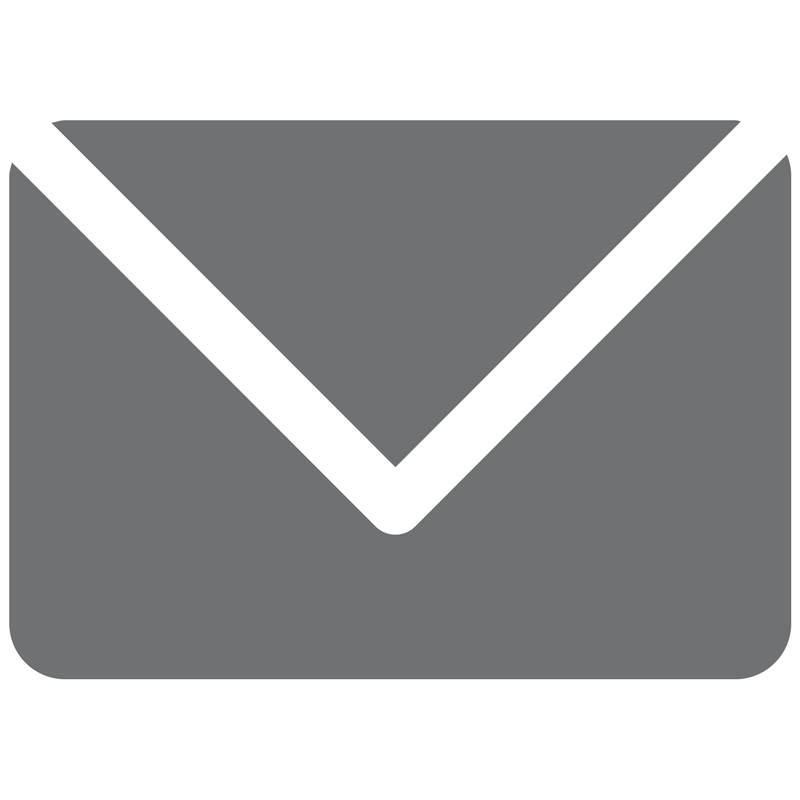
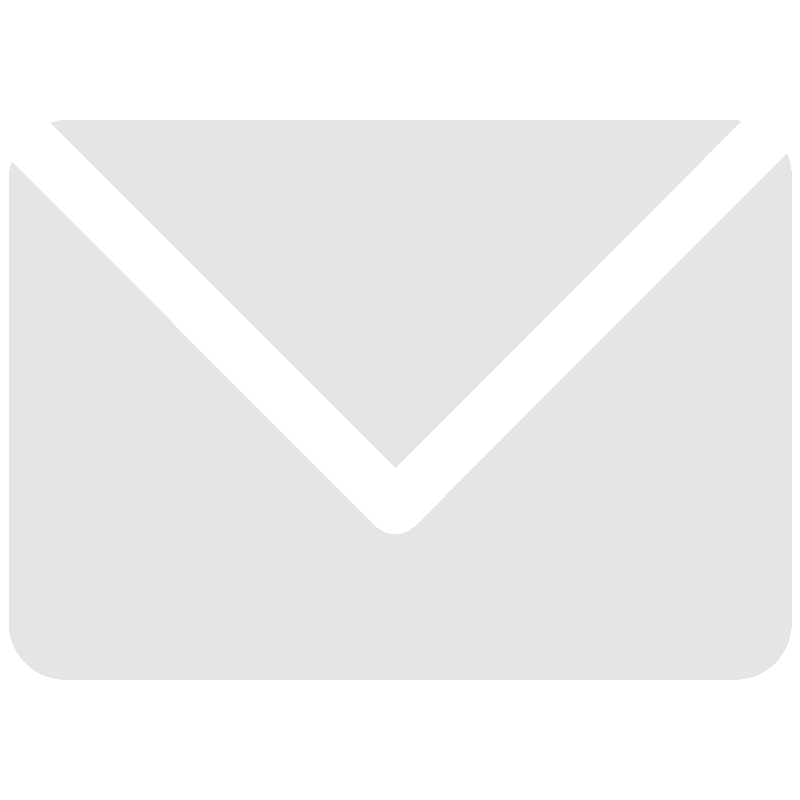
Added contents to Contacts Page

diff --git a/contact/contact.css b/contact/contact.css
@@ -110,12 +110,118 @@
     animation-delay: 1.9s;
 }
 
-.content {
-    padding-bottom: 20rem;
+@keyframes floatUp {
+    from {margin-top: 2rem;opacity: 0}
+    to {margin-top: 0rem;opacity: 1}
 }
 
-@media screen and (max-width: 480px) {}
+@keyframes fadeIn {
+    from {opacity: 0}
+    to {opacity: 1}
+}
 
-@media screen and (min-width: 480px) and (max-width: 1024px) {}
+.content {
+    padding: 5rem;
+}
+
+.title {
+    font-size: 3rem;
+    display: block;
+    color: white;
+    font-family: 'Quicksand', sans-serif;
+    text-align: center;
+    opacity: 0;
+}
+
+.title.show {
+    animation-name: floatUp;
+    animation-duration: 0.8s;
+    animation-fill-mode: both;
+    animation-delay: 1.5s;
+}
+
+.or {
+    font-size: 3rem;
+    display: block;
+    color: white;
+    font-family: 'Quicksand', sans-serif;
+    text-align: center;
+    opacity: 0;
+}
+
+.or.show {
+    animation-name: fadeIn;
+    animation-duration: 0.5s;
+    animation-fill-mode: both;
+    animation-delay: 1.6s;
+}
+
+.c1,.c2,.c3 {
+    font-size: 2rem;
+    display: block;
+    color: white;
+    font-family: 'Quicksand', sans-serif;
+    text-align: center;
+    padding: 5rem 0;
+}
+
+.c1.show,.c2.show,.c3.show {
+    animation-name: floatUp;
+    animation-duration: 0.8s;
+    animation-fill-mode: both;
+    animation-delay: 1.6s;
+}
+
+.c2c {
+    font-size: 1.5rem;
+    display: block;
+    color: white;
+    font-family: 'Quicksand', sans-serif;
+    text-align: center;
+}
+
+.c1i img {
+    height: 15%;
+    width: 15%;
+    margin: 1rem;
+}
+
+.c2i img {
+    height: 8%;
+    width: 8%;
+    margin: 1rem;
+}
+
+@media screen and (max-width: 480px) {
+    .c1i img {
+        height: 60%;
+        width: 60%;
+        margin: 1rem;
+    }
+    .c2i img {
+        height: 30%;
+        width: 30%;
+        margin: 1rem;
+    }
+}
+
+@media screen and (min-width: 480px) and (max-width: 1024px) {
+    .c1i img {
+        height: 60%;
+        width: 60%;
+        margin: 1rem;
+    }
+    .c2i img {
+        height: 30%;
+        width: 30%;
+        margin: 1rem;
+    }
+    .c1,.c2,.c3 {
+        font-size: 2.5rem;
+    }
+    .c2c {
+        font-size: 2rem;
+    }
+}
 
 @media screen and (min-width: 1024px) and (max-width: 1366px) {}

diff --git a/contact/index.html b/contact/index.html
@@ -39,7 +39,35 @@
             <div class="h1"><img src="../logos/ZETA-FULL-TRANSPARENT.png" draggable="false"></div>
             <div class="h2">Contact</div>
         </div>
-        <div class="content">&nbsp;</div>
+        <div class="content">
+            <div class="title">
+                Found an error? Or have a suggestion?
+            </div>
+            <div class="c1">
+                Create an Issue in Github Issue Tab.
+                <div class="c1i">
+                    <a href="https://github.com/genesis331/zeta-bot/issues" target="_blank"><img src="../img/GITHUB.png"/></a>
+                </div>
+            </div>
+            <div class="or">
+                OR
+            </div>
+            <div class="c2">
+                Email Zeta developers.
+                <div class="c2i">
+                    <img src="../img/MAIL.PNG"/>
+                </div>
+                <div class="c2c">
+                    cheah3838@gmail.com
+                </div>
+            </div>
+            <div class="or">
+                OR
+            </div>
+            <div class="c3">
+                Use <b>/contact</b> command in Zeta.
+            </div>
+        </div>
         <div class="footer">
             <div class="fl">
                 <img src="../logos/ZETA-COVER-TRANSPARENT.png">

diff --git a/contact/contact.js b/contact/contact.js
@@ -1,1 +1,7 @@
-$(window).on("load", function() {});
+$(window).on("load", function() {
+    $(".title").addClass("show");
+    $(".c1").addClass("show");
+    $(".c2").addClass("show");
+    $(".c3").addClass("show");
+    $(".or").addClass("show");
+});
